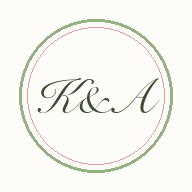
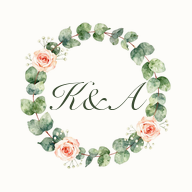
Invitación: guirnaldas de acuarela, íconos con corona y assets livianos en el celular
- Guirnalda de eucalipto y pimpollos bajo cada título de sección y en la
  carta que sale del sobre (generadas con mflux, como el resto).
- Íconos de "agregar a inicio" con una corona de eucalipto en acuarela
  alrededor del monograma, y apple-touch-icon para el iPhone.
- Versiones chicas de los ramos (srcset) y de la pincelada de la cita
  para pantallas angostas: el celular baja ~160 KB menos.

Changed region(s): [[0.0938, 0.0938, 0.9062, 0.9062]]

diff --git a/templates/invitacion.html b/templates/invitacion.html
@@ -20,6 +20,7 @@
 <meta property="og:image:height" content="630">
 <meta property="og:image:alt" content="{{ novia }} y {{ novio }} — {{ fecha_larga }}">
 <meta name="twitter:card" content="summary_large_image">
+<link rel="apple-touch-icon" href="{{ url_for('static', filename='img/icono-192.png') }}">
 <link rel="manifest" href="{{ url_for('static', filename='manifest.webmanifest') }}">
 
 <title>{{ novia_corto }} &amp; {{ novio_corto }} — {{ fecha_corta }}</title>
@@ -326,6 +327,12 @@
         color: var(--green-700); line-height: 1.05; text-align: center;
         margin-bottom: .5rem;
     }
+    /* Una guirnalda de eucalipto y pimpollos bajo cada título. */
+    .kicker-script::after {
+        content: ''; display: block;
+        width: min(230px, 60vw); aspect-ratio: 640 / 110; margin: .55rem auto 0;
+        background: url('{{ url_for('static', filename='img/deco/guirnalda.webp') }}') center / contain no-repeat;
+    }
     .section-sub {
         text-align: center; color: var(--muted); font-size: 1.05rem;
         font-style: italic; margin-bottom: clamp(2.2rem, 6vw, 3.2rem);
@@ -389,8 +396,12 @@
         text-align: center;
         /* Una pincelada de acuarela detrás de la frase, como en la tarjeta impresa. */
         background:
-            url('{{ url_for('static', filename='img/deco/banda.webp') }}') center / clamp(480px, 135vw, 900px) auto no-repeat,
+            url('{{ url_for('static', filename='img/deco/banda-sm.webp') }}') center / clamp(480px, 135vw, 900px) auto no-repeat,
             linear-gradient(170deg, var(--rose-50) 0%, var(--rose-100) 100%);
+    }
+    /* En pantallas anchas, la pincelada en su tamaño grande. */
+    @media (min-width: 700px) {
+        .band { background-image: url('{{ url_for('static', filename='img/deco/banda.webp') }}'), linear-gradient(170deg, var(--rose-50) 0%, var(--rose-100) 100%); }
     }
     .band .quote {
         max-width: 22ch; margin: 0 auto; font-style: italic; font-weight: 300;
@@ -662,6 +673,10 @@
     .sobre-carta .nombres {
         font-family: var(--font-script); font-size: clamp(1.7rem, 7.5vw, 2.4rem);
         color: var(--green-800); line-height: 1.1;
+    }
+    .sobre-carta::after {
+        content: ''; width: 58%; aspect-ratio: 480 / 87; margin-top: .45rem;
+        background: url('{{ url_for('static', filename='img/deco/guirnalda-2.webp') }}') center / contain no-repeat;
     }
     .sobre-carta .fecha {
         font-family: var(--font-caps); font-size: .66rem; letter-spacing: .32em;
@@ -1264,8 +1279,8 @@
 
 <!-- ══════════════════════════ CANCIÓN ══════════════════════════ -->
 <section class="cancion" id="cancion">
-    <img class="deco-ramo izq" src="{{ url_for('static', filename='img/deco/ramo.webp') }}" alt="" aria-hidden="true" loading="lazy" decoding="async" width="560" height="649">
-    <img class="deco-ramo der" src="{{ url_for('static', filename='img/deco/ramo-2.webp') }}" alt="" aria-hidden="true" loading="lazy" decoding="async" width="560" height="504">
+    <img class="deco-ramo izq" src="{{ url_for('static', filename='img/deco/ramo-sm.webp') }}" srcset="{{ url_for('static', filename='img/deco/ramo-sm.webp') }} 320w, {{ url_for('static', filename='img/deco/ramo.webp') }} 560w" sizes="(max-width: 560px) 150px, 30vw" alt="" aria-hidden="true" loading="lazy" decoding="async" width="560" height="649">
+    <img class="deco-ramo der" src="{{ url_for('static', filename='img/deco/ramo-2-sm.webp') }}" srcset="{{ url_for('static', filename='img/deco/ramo-2-sm.webp') }} 320w, {{ url_for('static', filename='img/deco/ramo-2.webp') }} 560w" sizes="(max-width: 560px) 150px, 30vw" alt="" aria-hidden="true" loading="lazy" decoding="async" width="560" height="504">
     <h2 class="kicker-script reveal">Sumá una canción</h2>
     <p class="section-sub reveal">Para que la pista no pare</p>
     <p class="cancion-nota reveal d1">Decinos cuál es el tema que no puede faltar y lo agregamos a la playlist de la fiesta.</p>

diff --git a/scripts/generar_iconos.py b/scripts/generar_iconos.py
@@ -15,6 +15,7 @@ from PIL import Image, ImageDraw, ImageFont
 
 RAIZ = os.path.abspath(os.path.join(os.path.dirname(__file__), '..'))
 DESTINO = os.path.join(RAIZ, 'static', 'img')
+CORONA = os.path.join(DESTINO, 'deco', 'corona.webp')
 
 CREMA = (253, 252, 249)
 VERDE = (59, 76, 51)
@@ -44,16 +45,23 @@ def dibujar(lado, margen):
     x0 = y0 = lado * margen
     x1 = y1 = x0 + util
 
-    # Aro exterior salvia y aro interior rosa: el mismo doble filete del hero.
-    d.ellipse([x0, y0, x1, y1], outline=SALVIA, width=max(2, int(lado * 0.016)))
-    aire = util * 0.055
-    d.ellipse([x0 + aire, y0 + aire, x1 - aire, y1 - aire],
-              outline=ROSA, width=max(1, int(lado * 0.008)))
+    if os.path.exists(CORONA):
+        # La corona de eucalipto en acuarela (scripts/deco), la misma familia
+        # que los ramos de la invitación.
+        corona = Image.open(CORONA).convert('RGBA')
+        corona.thumbnail((int(util), int(util)), Image.LANCZOS)
+        img.paste(corona, (int(lado / 2 - corona.width / 2), int(lado / 2 - corona.height / 2)), corona)
+    else:
+        # Aro exterior salvia y aro interior rosa: el mismo doble filete del hero.
+        d.ellipse([x0, y0, x1, y1], outline=SALVIA, width=max(2, int(lado * 0.016)))
+        aire = util * 0.055
+        d.ellipse([x0 + aire, y0 + aire, x1 - aire, y1 - aire],
+                  outline=ROSA, width=max(1, int(lado * 0.008)))
 
     # Monograma centrado sobre el alto real del glifo, no sobre la caja de la
     # fuente: si no, las mayúsculas caligráficas quedan visiblemente bajas.
     texto = 'K&A'
-    fuente = _fuente(int(util * 0.32))
+    fuente = _fuente(int(util * (0.26 if os.path.exists(CORONA) else 0.32)))
     izq, arriba, der, abajo = d.textbbox((0, 0), texto, font=fuente)
     d.text((lado / 2 - (der - izq) / 2 - izq,
             lado / 2 - (abajo - arriba) / 2 - arriba),

diff --git a/scripts/deco/procesar.py b/scripts/deco/procesar.py
@@ -92,10 +92,16 @@ guardar(cuad, 'lacre.webp', 240, quality=86, method=6)
 
 # Acuarelas con transparencia.
 for origen, destino, ancho, calidad in (('ramo-29.png', 'ramo.webp', 560, 72), ('ramo-3.png', 'ramo-2.webp', 560, 72),
-                                        ('ramita-7.png', 'ramita.webp', 300, 78), ('banda-41.png', 'banda.webp', 960, 66)):
+                                        ('ramita-7.png', 'ramita.webp', 300, 78), ('banda-41.png', 'banda.webp', 960, 66),
+                                        ('guirnalda-12.png', 'guirnalda.webp', 640, 76), ('guirnalda-44.png', 'guirnalda-2.webp', 480, 76),
+                                        ('corona-9.png', 'corona.webp', 512, 88)):
     rgba = acuarela_sin_fondo(abrir(origen))
     if destino == 'banda.webp':
         rgba[..., 3] *= 0.55        # va detrás de texto: más aguada
     rgba = (rgba * 255).round().astype(np.uint8)
-    guardar(recortar(Image.frombuffer('RGBA', rgba.shape[1::-1], rgba.tobytes())),
-            destino, ancho, quality=calidad, method=6)
+    img = recortar(Image.frombuffer('RGBA', rgba.shape[1::-1], rgba.tobytes()))
+    guardar(img, destino, ancho, quality=calidad, method=6)
+    # Versión para celular: el ramo se ve a 150 px y la banda a ~500.
+    chico = {'ramo.webp': 320, 'ramo-2.webp': 320, 'banda.webp': 640}.get(destino)
+    if chico:
+        guardar(img, destino.replace('.webp', '-sm.webp'), chico, quality=calidad, method=6)
